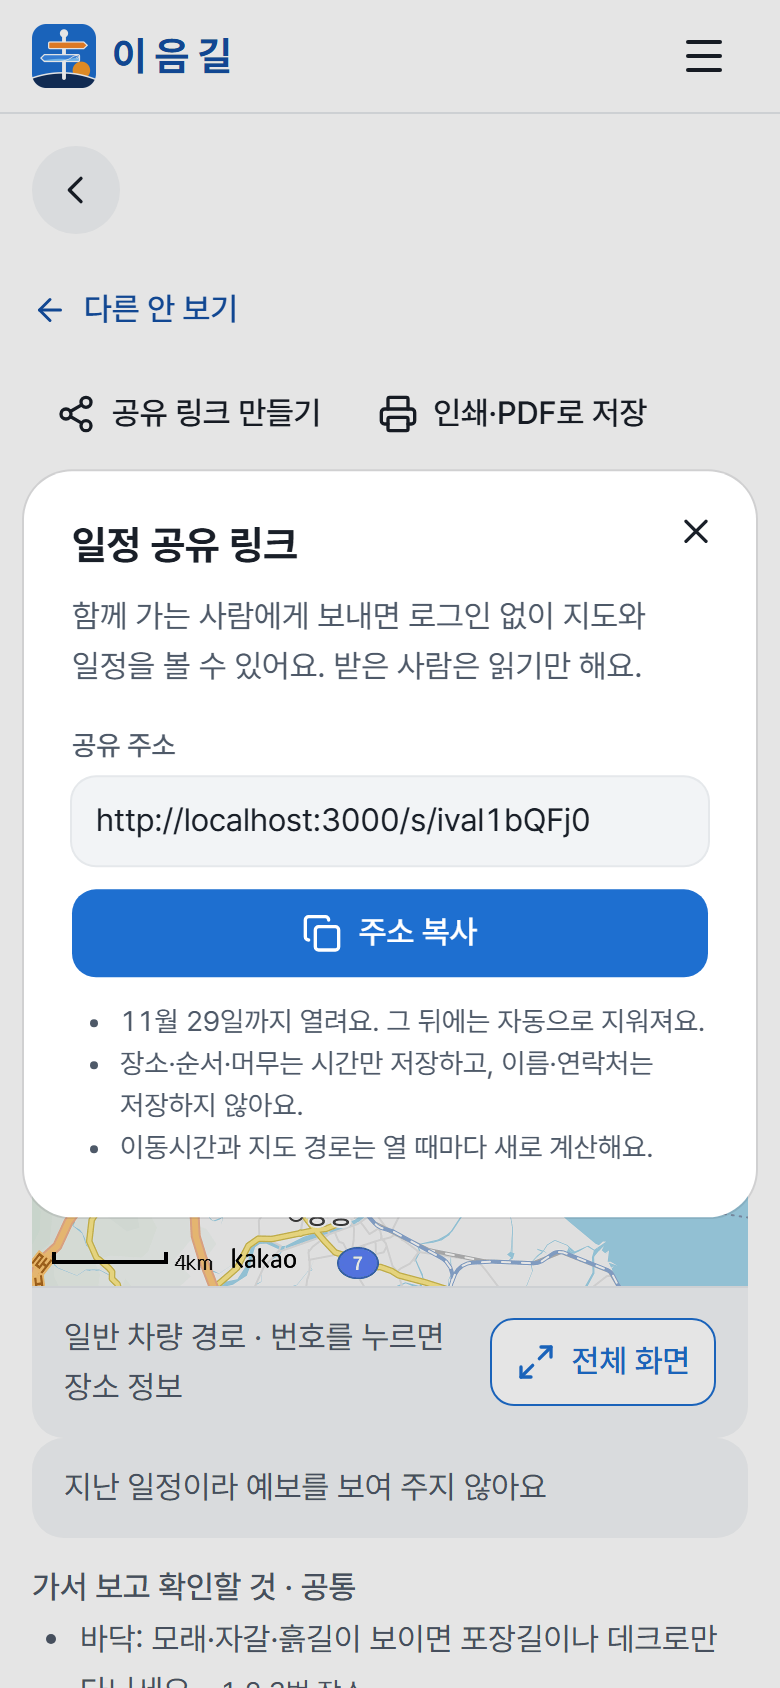
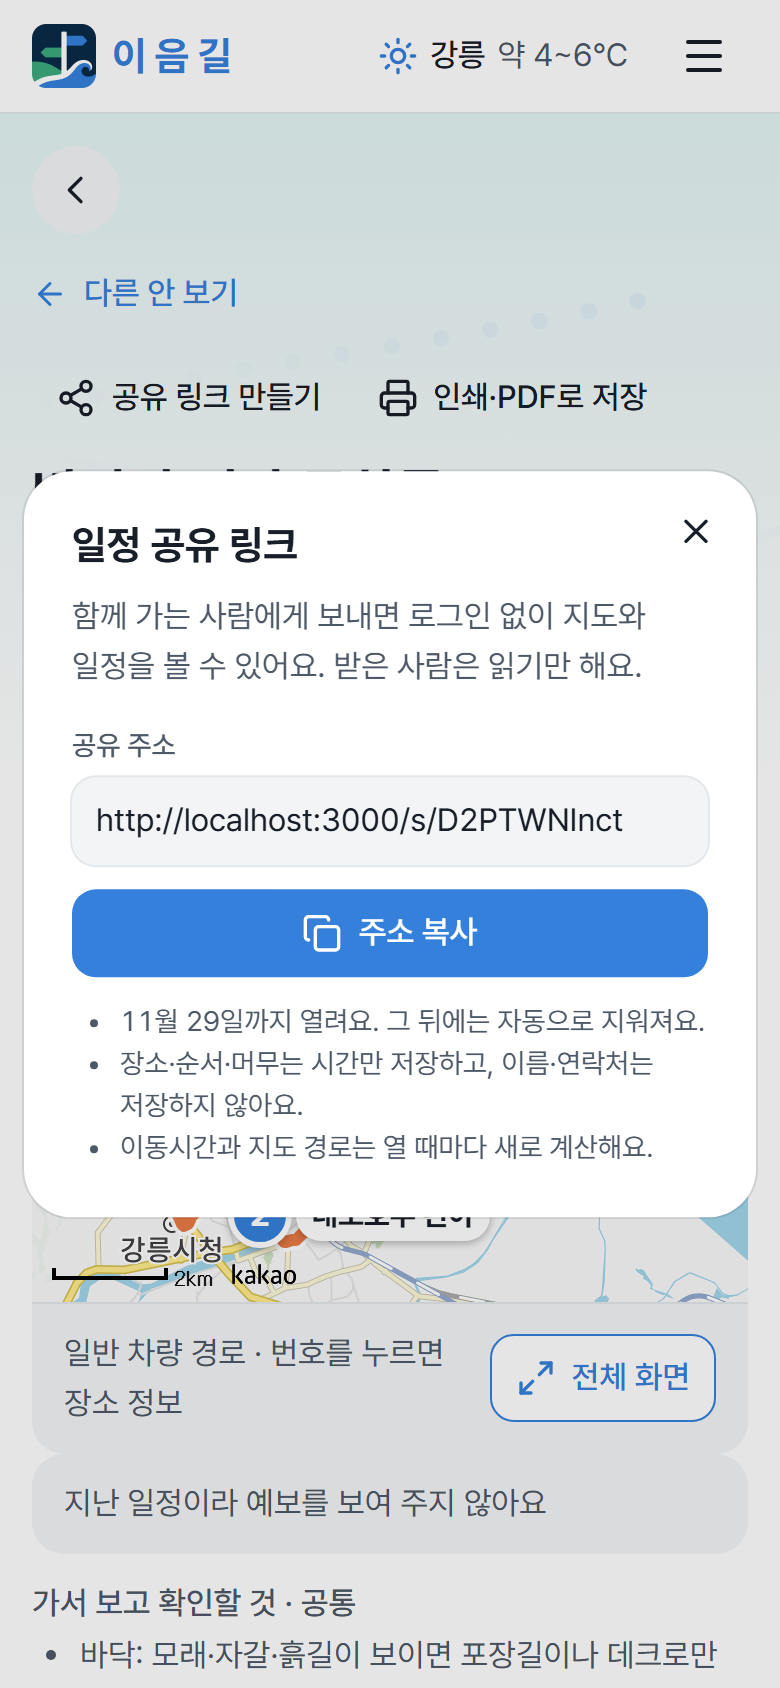
docs: 서비스 소개·작동 원리 글 최신화 — 그림 8장 새 화면으로, 제목 '이음길은 이렇게 작동해요', 관광지 둘러보기·점선 진행·오늘 날씨·디자인 참고 설명, 문장 다듬기
- 소개 그림(비교·확정·조건·장소 카드·바꾸기·공유·출발 전 확인·만드는 중)을 오늘 화면으로 다시 만듦(README 휴대폰 틀 캡처에서)
- 작동 원리: 메뉴 이름에 맞춰 제목을 바꾸고, 'AI가 쓴 것 / 코드가 계산' 예시를 README 응답 예와 같게, 접근성·디자인 문단 보강
- 서비스 소개: 시작 화면 카드 이름 '누구와 함께 가세요?', 예시 제목 최신, 관광지 둘러보기 문단 추가
- 한국어 교정(korean-proofreader 기준): 겹친 조사·주어 호응·늘어진 연결만 고침

diff --git a/src/app/about/page.tsx b/src/app/about/page.tsx
@@ -43,7 +43,7 @@ export default function AboutPage() {
           ]}
         />
       }
-      next={{ href: "/about/how", label: "이음길은 이렇게 만들었어요", body: "AI가 무엇을 판단하고, 코드가 무엇을 검사하는지 궁금하다면" }}
+      next={{ href: "/about/how", label: "이음길은 이렇게 작동해요", body: "AI가 무엇을 판단하고, 코드가 무엇을 검사하는지 궁금하다면" }}
     >
       <Section id="who" title={T.who}>
         <Points
@@ -69,7 +69,7 @@ export default function AboutPage() {
           items={[
             {
               head: "네 가지만 골라 주세요",
-              body: "언제·어디서, 누구와, 꼭 필요한 조건, 좋아하는 곳을 차례로 물어요. 한 화면에 질문 하나씩이고, 글을 써야 하는 칸은 없어요.",
+              body: "언제·어디서, 누구와, 꼭 필요한 조건, 좋아하는 곳까지 네 단계를 차례로 물어요. 고르기만 하면 되고, 글을 써야 하는 칸은 없어요. 지금 몇 단계인지 화면 위 점선 길로 보여 드려요.",
             },
             {
               head: "AI가 장소마다 판단해요",
@@ -77,7 +77,7 @@ export default function AboutPage() {
             },
             {
               head: "성격이 다른 일정을 2~3개 보여 드려요",
-              body: "여유롭게 둘러보는 일정, 좋아하는 곳 위주의 일정처럼 방향이 다른 일정을 나란히 비교해요. 제목에는 실제로 들르는 곳을 적어요(예: '오죽헌과 솔숲을 잇는 여유로운 역사 나들이'). 도착 시각과 이동 시간은 계산해서 '약'을 붙여요. 2박 3일은 일정 하나를 꼼꼼하게 짜요.",
+              body: "여유롭게 둘러보는 일정, 좋아하는 곳 위주의 일정처럼 방향이 다른 일정을 나란히 놓고 비교할 수 있어요. 제목에는 실제로 들르는 곳을 적어요(예: '오죽헌과 솔숲 사이를 천천히 거니는 여행'). 도착 시각과 이동 시간은 계산해서 '약'을 붙여요. 2박 3일은 일정 하나를 꼼꼼하게 짜요.",
             },
             {
               head: "마음에 들게 고쳐요",
@@ -85,7 +85,7 @@ export default function AboutPage() {
             },
             {
               head: "정하고, 나누고, 들고 가요",
-              body: "정한 일정은 지도와 날짜별 날씨와 함께 봐요. 공유 링크로 함께 가는 사람에게 보내거나 A4 한 장으로 인쇄할 수 있어요. 여행 당일에는 휴대폰으로 다시 열어요.",
+              body: "정한 일정은 지도, 날짜별 날씨와 함께 봐요. 공유 링크로 함께 가는 사람에게 보내거나 A4 한 장으로 인쇄할 수 있어요. 여행 당일에는 휴대폰으로 다시 열어요.",
             },
           ]}
         />
@@ -100,8 +100,12 @@ export default function AboutPage() {
           ]}
         />
         <P>
-          먼저 결과부터 보고 싶다면 시작 화면의 &lsquo;누구와 가세요?&rsquo; 카드를 눌러 보세요. 휠체어·강릉 1박 2일, 어르신·속초 당일, 유모차·동해 당일 일정을 AI가
+          결과부터 보고 싶다면 시작 화면의 &lsquo;누구와 함께 가세요?&rsquo; 카드를 눌러 보세요. 휠체어·강릉 1박 2일, 어르신·속초 당일, 유모차·동해 당일 일정을 AI가
           미리 만들어 두어 입력 없이 바로 열려요.
+        </P>
+        <P>
+          꼭 가고 싶은 곳이 있다면 &lsquo;관광지 둘러보기&rsquo;에서 152곳을 사진과 접근성 표시로 살펴보세요. 휠체어 진입, 장애인 화장실 같은 시설로 거를 수 있고,
+          담아 둔 곳은 조건에 맞으면 모든 일정에 넣어요.
         </P>
       </Section>
 
@@ -148,7 +152,7 @@ export default function AboutPage() {
           items={[
             { head: "한국관광공사 무장애 여행정보", body: "강릉·속초·동해 관광지 152곳의 무장애 정보, 운영시간, 전화번호, 사진" },
             { head: "행정안전부 공중화장실 표준데이터", body: "장애인 화장실과 기저귀 교환대 정보를 더했어요. 데이터 기준일을 함께 보여 드려요." },
-            { head: "기상청 예보", body: "확정한 일정의 날짜별 날씨. 비나 눈 예보가 있으면 바깥 장소에 주의를 붙여요." },
+            { head: "기상청 예보", body: "확정한 일정의 날짜별 날씨와 화면 맨 위의 오늘 영동 날씨. 비나 눈 예보가 있으면 바깥 장소에 주의를 붙여요." },
             { head: "카카오맵", body: "지도와 차량 이동 시간, 경로선" },
           ]}
         />

diff --git a/src/app/about/how/page.tsx b/src/app/about/how/page.tsx
@@ -7,7 +7,7 @@ import { Article, Numbers, P, Points, Section, Steps, tocOf } from "@/components
 import { Architecture, Phones } from "@/components/about/Figures";
 
 export const metadata: Metadata = {
-  title: "이음길은 이렇게 만들었어요 · 이음길 AI",
+  title: "이음길은 이렇게 작동해요 · 이음길 AI",
   description: "AI가 공공 무장애 정보를 읽고 판단하면, 코드가 시각을 계산하고 안전 기준을 검사해요. 이음길의 작동 원리를 소개해요.",
 };
 
@@ -26,11 +26,11 @@ const LINES: { text: string; by: "AI" | "코드" }[] = [
   { text: "10:00 강릉역 출발 → 차량 약 11분", by: "코드" },
   { text: "약 10:11~11:36 강릉 오죽헌·시립박물관", by: "코드" },
   { text: "적합 · 확신 높음", by: "AI" },
-  { text: "경사로와 엘리베이터가 있어 이동하기 편리해서 골랐어요.", by: "AI" },
-  { text: "가서 볼 것: 모래·자갈·흙길이 보이면 포장길이나 데크로만 다니세요.", by: "코드" },
+  { text: "꼭 가고 싶어 하신 곳으로 경사로가 잘 되어 있어서 편하게 관람할 수 있어요.", by: "AI" },
+  { text: "가서 볼 것: 바닥 — 모래·자갈·흙길이 보이면 포장길이나 데크로만 다니세요.", by: "코드" },
   { text: "11:36~11:56 쉬는 시간 → 차량 약 5분", by: "코드" },
-  { text: "약 12:01~13:26 강릉자수박물관", by: "코드" },
-  { text: "13:26~14:26 점심·휴식", by: "코드" },
+  { text: "약 12:01~13:14 강릉자수박물관", by: "코드" },
+  { text: "13:14~14:14 점심·휴식", by: "코드" },
 ];
 
 /** 예시 루트 A안 첫째 날을 줄마다 누가 썼는지 표시(README '실제 응답 예'와 같은 값) */
@@ -66,9 +66,9 @@ const T = {
 export default function HowPage() {
   return (
     <Article
-      title="이음길은 이렇게 만들었어요"
+      title="이음길은 이렇게 작동해요"
       toc={tocOf(T)}
-      lead="AI는 공공 무장애 정보를 읽고 판단하고 일정을 짜요. 시각 계산과 안전 검사는 코드가 맡아요. 역할을 이렇게 나눈 이유와 방법을 정리했어요."
+      lead="AI는 공공 무장애 정보를 읽고 판단해 일정을 짜요. 시각 계산과 안전 검사는 코드가 맡아요. 역할을 이렇게 나눈 이유와 방법을 정리했어요."
       next={{ href: "/about", label: "이음길은 이런 서비스예요", body: "누구를 위한 서비스인지, 판단 표시를 어떻게 읽는지 먼저 보고 싶다면" }}
     >
       <Section id="start" title={T.start}>
@@ -173,9 +173,13 @@ export default function HowPage() {
 
       <Section id="a11y" title={T.a11y}>
         <P>
-          본문 글자는 16px 이상, 누르는 곳은 44px 이상이에요. 글자 크기는 휴대폰과 브라우저의 글자 크기 설정을 그대로 따라요. 판단은 색과 기호와 글자로 함께
-          나타내요. 웹 접근성 자동 검사(WCAG 2.2 A·AA)를 주요 화면마다 돌려 위반 0건을 지켜요. 색은 파랑과 초록 두 가지로 통일했고, 이 색의 글자 대비는 팀이 화면을 직접 보고 판단해 자동 검사에서 뺐어요. 팀원이 실제 이용자 입장에서 화면을 계속 써 보며 불편한 점을 찾아
-          고쳤어요. 시작 화면은 디자인 시안과 지자체 관광 사이트들을 참고해 다시 만들었어요.
+          본문 글자는 16px 이상, 누르는 곳은 44px 이상이에요. 글자 크기는 휴대폰과 브라우저의 글자 크기 설정을 그대로 따라요. 판단과 고른 칸은 색만이 아니라
+          기호(✓ ! ✕)와 글자로 함께 나타내요. 움직임은 짧게 두고, 기기의 &lsquo;동작 줄이기&rsquo;를 켜면 멈춰요. 웹 접근성 자동 검사(WCAG 2.2 A·AA)를 주요
+          화면마다 돌려 위반 0건을 지켜요. 색은 파랑과 초록 두 가지로 통일했고, 이 색의 글자 대비는 팀이 화면을 직접 보고 판단해 자동 검사에서 뺐어요.
+        </P>
+        <P>
+          디자인은 실제 관광·예약 사이트를 보고 다듬었어요. 시작 화면은 디자인 시안과 지자체 관광 사이트를 참고했어요. 화면 맨 위 하늘색 띠와 시간표 점선은
+          강진·예산 문화관광 사이트를, 고르는 칸은 보험·렌터카 사이트의 선택 방식을 참고했어요. 팀원이 이용자 입장에서 화면을 계속 써 보며 불편한 점을 찾아 고쳤어요.
         </P>
       </Section>
 

diff --git a/tests/e2e/about.spec.ts b/tests/e2e/about.spec.ts
@@ -14,9 +14,9 @@ test("시작 화면 하단바 → 서비스 소개 → 작동 원리 → 다시 
   await expect(page.getByText("지도의 경로는 일반 차량 경로예요")).toBeVisible();
   await expect(page.getByText("이름과 연락처를 받지 않아요")).toBeVisible();
 
-  await page.getByRole("link", { name: /이음길은 이렇게 만들었어요/ }).click();
+  await page.getByRole("link", { name: /이음길은 이렇게 작동해요/ }).click();
   await expect(page).toHaveURL(/\/about\/how$/);
-  await expect(page.getByRole("heading", { level: 1, name: "이음길은 이렇게 만들었어요" })).toBeVisible();
+  await expect(page.getByRole("heading", { level: 1, name: "이음길은 이렇게 작동해요" })).toBeVisible();
   await expect(page.getByText("시각 계산과 검사(코드)")).toBeVisible();
 
   await page.getByRole("link", { name: /이음길은 이런 서비스예요/ }).click();

diff --git a/docs/planning.md b/docs/planning.md
@@ -75,7 +75,7 @@
 - 히어로: 영동 풍경 그림(표지판·설악산 바위·정자·흰 길·바다·촛대바위, 흰 길을 따라 점선이 하나씩 찍히고 구름·갈매기·배가 천천히 움직임, 동작 줄이기면 멈춤) 위에 '지도로 찾아가는 즐거운 영동 여행길'(카페24 숑숑)과 한 줄 설명, 주 버튼 '여행 루트 만들기'(초록)와 '예시 루트 먼저 보기'. 오늘 날씨는 11/25부터 머리줄로 옮겼다.
 - 바로가기 띠: 여행 루트 만들기 · 예시 루트 보기 · 관광지 둘러보기 · 서비스 소개 · 작동 원리. 아이콘은 히어로와 같은 그림체의 미니 일러스트(표지판 · 지도 · 정자 · 등대 · 설계도)이고, 마우스를 올리거나 키보드 초점이 가면 움직이는 부분만 살짝 움직인다(동작 줄이기면 없음).
 - 이렇게 골라요: 단계 3개(조건에 안 맞는 곳은 빼요 / 왜 골랐는지와 출처를 보여 줘요 / 모르는 건 물어볼 것을 알려 줘요)를 고르면 휴대폰 목업 속 화면이 그 단계의 실제 화면으로 바뀐다. 넓고 높은 화면(1024px·높이 700px 이상)에서는 화면을 고정한 채 스크롤로 1→3단계가 넘어간다. 휴대폰·태블릿은 스크롤하면 단계 목록이 화면 위로 지나가 버려서, 휴대폰 목업 바로 아래에 단계 막대(누르면 그 단계)와 지금 단계 카드를 두고 목업이 보이는 동안 3초마다 저절로 넘긴다. 움직이는 내용이라 [자동 넘김 멈추기]가 있고, 단계를 직접 고르면 멈추며, 동작 줄이기 설정이면 멈춘 채로 시작한다. 주 버튼은 '여행 루트 만들기'.
-- 누구와 가세요?: 휠체어·강릉 1박 2일 / 어르신·속초 당일 / 유모차·동해 당일 루트 카드 3장. 미리 만든 실제 AI 결과에서 안 하나만 골라 연다(`/trip/route-…`, 안 비교 없음).
+- 누구와 함께 가세요?: 휠체어·강릉 1박 2일 / 어르신·속초 당일 / 유모차·동해 당일 루트 카드 3장. 미리 만든 실제 AI 결과에서 안 하나만 골라 연다(`/trip/route-…`, 안 비교 없음).
 - 영동 대표 관광지 8곳을 고화질 사진(CC0 · CC BY · 공공누리 제1유형, 구역 아래 '사진 출처'에 작가 · 라이선스 · 원본 · 바꾼 점)으로 보여 주고, 누르면 관광지 둘러보기에서 그 지역 탭을 고른 채 그 관광지 자세히 창을 연다(`/places?place=ID`, 닫으면 목록의 그 카드가 보인다).
 
 예시 루트(`/trip/example`)와 루트 카드는 저장소에 미리 만들어 둔 실제 AI 결과라 심사위원이 입력 없이(AI 호출 없이) 결과를 볼 수 있다. 처음 들어오면 로고와 한 줄 소개를 잠깐 보여 주고 넘어간다(탭마다 한 번, 누르면 건너뛰고, 움직임 줄이기 설정이면 생략).
